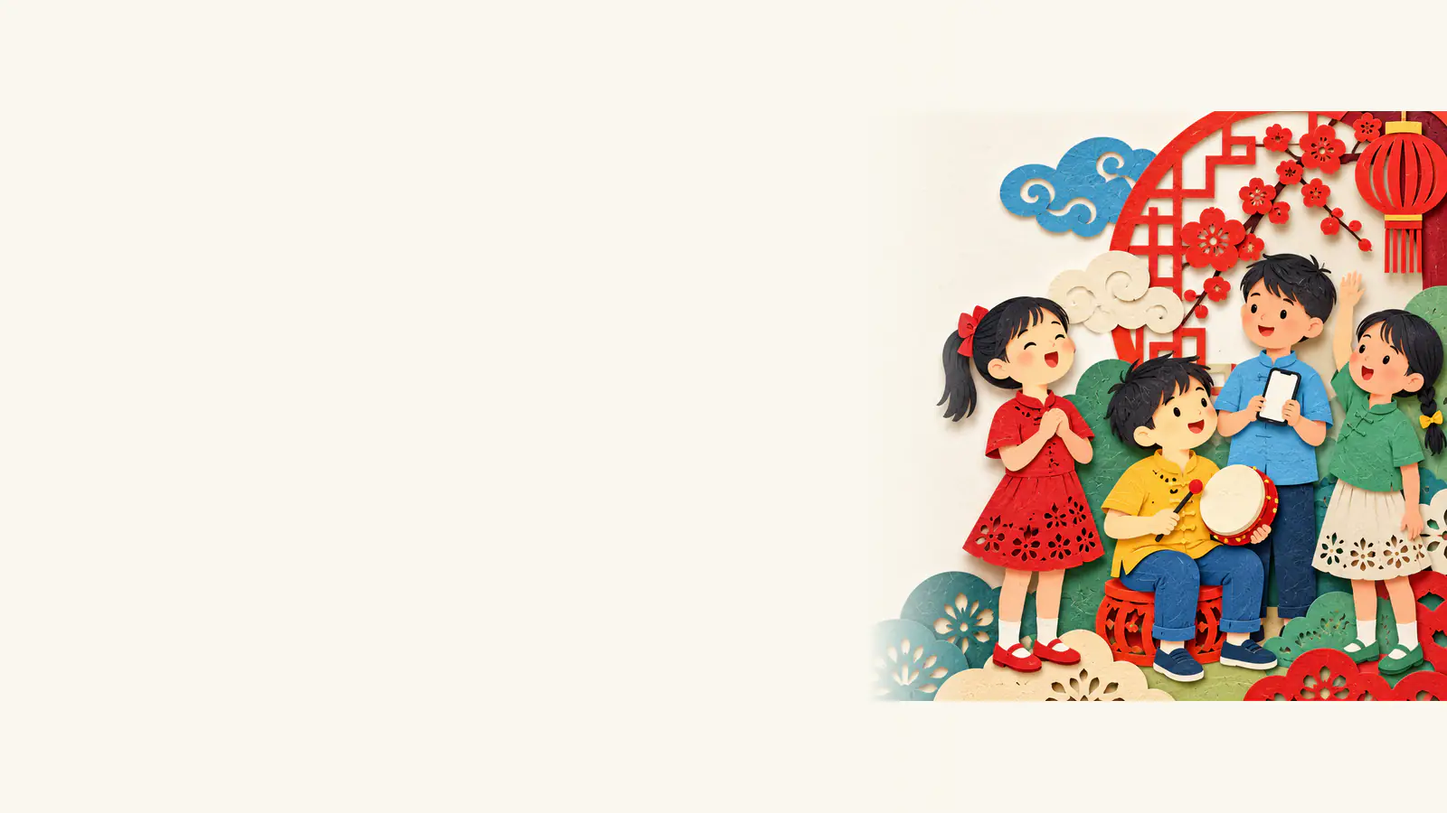
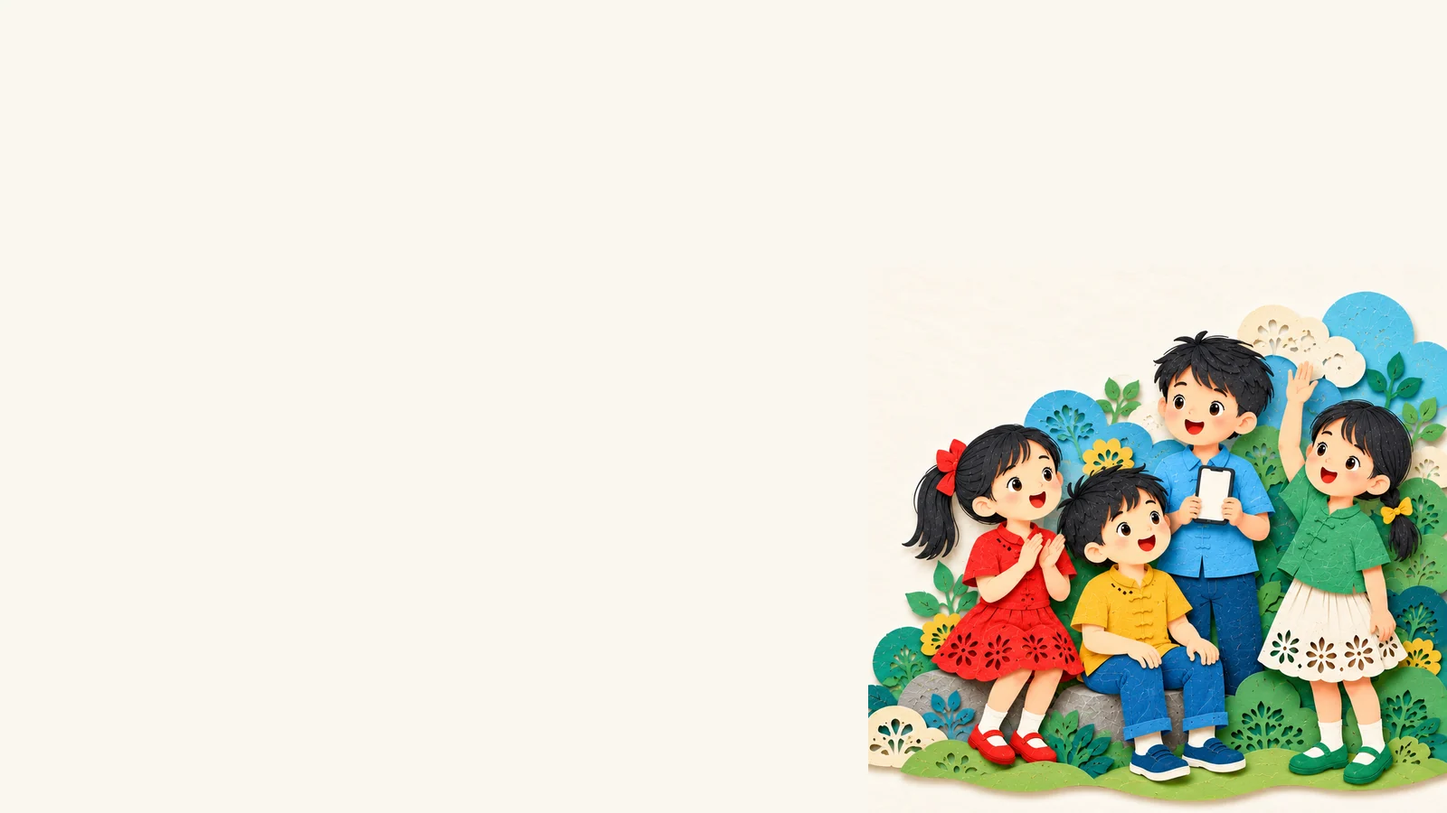
fix(lesson): deck QA across 82 sampled lessons
- 演奏课 lesson type (竖笛 / 口风琴 / 演奏 mode); 国歌、队歌 get ceremony-appropriate tasks;
  plain wording for grades 1-2; listening questions no longer assume a recurring theme
- Long scores on 难点突破 keep their size and scroll in place, following the playing note
- 4:3 projector: score beside the elements, footer kept on one line; text-wrap: pretty deck-wide
- 人教版: 音乐剧 counts as a work type (four lessons could not open); 《音乐之声》 credits per textbook p.30
- Redrawn group-roles illustrations for both editions

Changed region(s): [[0.5938, 0.1244, 1.0, 0.9956]]

diff --git a/app/lib/lesson/reflective.ts b/app/lib/lesson/reflective.ts
@@ -1,13 +1,13 @@
 // 反思型课堂（动机激发 → 认知冲突 → 协同建构 → 应用迁移 → 总结升华）的标准课件脚本。
 // 依据《反思型中小学音乐课堂教学设计模板（通用版）》：每个阶段有固定的环节、建议时长和“共同反思要点”，
-// 提问和任务按课型（歌唱课 / 欣赏课 / 编创课）取模板中的示例，并填入本课作品名与教材事实。
+// 提问和任务按课型（歌唱课 / 演奏课 / 欣赏课 / 编创课）取模板中的示例，并填入本课作品名与教材事实。
 // 这里只生成文字脚本；页面上的谱例、旋律、插图由 ReflectivePresent 按数据有无决定是否出现。
 
-export type LessonKind = "sing" | "listen" | "create";
+export type LessonKind = "sing" | "play" | "listen" | "create";
 export type StageKey = "motivate" | "conflict" | "construct" | "transfer" | "summary";
 export type LessonFact = { label: string; value: string };
 
-export const LESSON_KINDS: Record<LessonKind, string> = { sing: "歌唱课", listen: "欣赏课", create: "编创课" };
+export const LESSON_KINDS: Record<LessonKind, string> = { sing: "歌唱课", play: "演奏课", listen: "欣赏课", create: "编创课" };
 
 export const STAGES: Array<{ key: StageKey; name: string; theme: string; minutes: number }> = [
   { key: "motivate", name: "动机激发", theme: "反思铺垫", minutes: 5 },
@@ -20,10 +20,15 @@ export const STAGES: Array<{ key: StageKey; name: string; theme: string; minutes
 const SING_MODES = /小小歌唱家|唱歌|演唱|视唱|背唱|印在心里的歌/;
 const CREATE_MODES = /创乐工坊|编创|创编/;
 const SONG_TYPES = /歌曲|民歌|号子|童谣|合唱|戏曲歌曲/;
+const PLAY_MODES = /小小演奏家|演奏/;
+const CLASSROOM_INSTRUMENTS = /竖笛|口风琴|葫芦丝|陶笛|口琴/;
+// 国歌、队歌等仪式歌曲：不做“换情绪、加律动”一类改编练习，而是规范、庄严地演唱。
+const SOLEMN_WORKS = /国歌|队歌|国际歌/;
 
-/** 课型：先看教材栏目，再看作品类型；老师可以在课件里改。 */
-export function lessonKindOf(mode: string | undefined, workType: string): LessonKind {
+/** 课型：先看教材栏目，再看作品类型和作品名（竖笛、口风琴等课堂乐器曲是演奏课）；老师可以在课件里改。 */
+export function lessonKindOf(mode: string | undefined, workType: string, workName = ""): LessonKind {
   if (mode && CREATE_MODES.test(mode)) return "create";
+  if ((mode && PLAY_MODES.test(mode)) || CLASSROOM_INSTRUMENTS.test(workName)) return "play";
   if (mode && SING_MODES.test(mode)) return "sing";
   if (mode && /万花筒|聆听|欣赏|故事|考古/.test(mode)) return "listen";
   return SONG_TYPES.test(workType) ? "sing" : "listen";
@@ -86,13 +91,21 @@ export function reflectiveScript(input: { workName: string; kind: LessonKind; gr
   const place = pick(facts, /^(地域|所属地域)$/);
   const origin = nation ? `${nation}音乐` : place ? `${place}的音乐` : "这首作品的文化背景";
   const playful = level === "low";
+  const solemn = SOLEMN_WORKS.test(work);
+  const ensemble = /合奏|重奏/.test(work);
 
   const goals = {
     sing: [
       { area: "审美感知", text: `听辨${work}的旋律、节奏和情绪${mood ? `，说出它“${mood}”的感觉从哪里来` : "，说出自己的感受"}。` },
       { area: "艺术表现", text: `用自然、有弹性的声音唱好${work}，做到音准、节奏准确，表达出歌曲的情感。` },
-      { area: "创意实践", text: "尝试用不同的速度、力度或情绪演唱一个乐句，比较效果并说出理由。" },
-      { area: "文化理解", text: `了解${origin}，体会音乐和生活、文化的联系。` },
+      { area: "创意实践", text: solemn ? "比较不同的速度、力度，体会为什么要庄严、有力地演唱。" : "尝试用不同的速度、力度或情绪演唱一个乐句，比较效果并说出理由。" },
+      { area: "文化理解", text: solemn ? `了解${work}的创作背景和演唱礼仪。` : `了解${origin}，体会音乐和生活、文化的联系。` },
+    ],
+    play: [
+      { area: "审美感知", text: `聆听${work}，感受旋律和节奏的特点${mood ? `，体会它“${mood}”的情绪` : ""}。` },
+      { area: "艺术表现", text: `用正确的姿势和演奏方法演奏${work}，做到节奏稳定、音色干净${ensemble ? "，合奏时声部整齐" : ""}。` },
+      { area: "创意实践", text: "尝试用不同的力度或速度演奏一个乐句，比较效果并说出理由。" },
+      { area: "文化理解", text: `了解${origin}，体会乐器演奏和音乐表达的联系。` },
     ],
     listen: [
       { area: "审美感知", text: `聆听${work}，辨识旋律、节奏、音色和情绪的变化。` },
@@ -110,16 +123,24 @@ export function reflectiveScript(input: { workName: string; kind: LessonKind; gr
 
   const scene = {
     sing: playful ? `先听一听${work}，跟着音乐轻轻拍手，想一想：歌里唱了什么？` : `聆听${work}的示范演唱，说一说：歌曲给你留下的第一印象是什么？`,
+    play: `先听一听${work}的示范演奏，看看手指和气息怎样配合，想一想：哪一句你最想先学会？`,
     listen: `闭上眼睛完整聆听${work}的片段，想象音乐描绘了怎样的画面。`,
     create: `听一听${work}，找一找里面最有特点的节奏，想一想生活里哪里也有这样的节奏。`,
   }[kind];
 
   const perceive = {
     sing: { task: "跟着旋律轻声模唱，标出唱得不稳的地方。", rows: [
-      { label: "情绪", options: ["欢快", "抒情", "优美", "雄壮", "活泼", "深情"] },
+      { label: "情绪", options: ["欢快", "抒情", "优美", "雄壮", "庄严", "活泼", "深情"] },
       { label: "速度", options: ["慢", "稍慢", "中速", "稍快", "快"] },
-      { label: "旋律", options: ["级进为主", "跳进较多", "起伏平稳", "起伏较大"] },
-      { label: "难点", options: ["音准", "节奏", "换气", "高音", "咬字"] },
+      // 低年级用形象的说法代替“级进、跳进”等术语
+      { label: "旋律", options: playful ? ["像走楼梯", "像跳台阶", "平平稳稳", "高高低低"] : ["级进为主", "跳进较多", "起伏平稳", "起伏较大"] },
+      { label: "难点", options: playful ? ["唱准音", "拍子稳", "换气", "唱清楚"] : ["音准", "节奏", "换气", "高音", "咬字"] },
+    ] },
+    play: { task: "跟着音乐默按指法或轻拍节奏，标出最难的地方。", rows: [
+      { label: "情绪", options: ["欢快", "抒情", "优美", "活泼", "庄重"] },
+      { label: "速度", options: ["慢", "中速", "快"] },
+      { label: "难点", options: ["指法", "气息", "节奏", "音色", ...(ensemble ? ["声部配合"] : [])] },
+      { label: "练法", options: ["先拍节奏", "先唱谱", "慢速练习", "分句练习"] },
     ] },
     listen: { task: "完整聆听，记录旋律、节奏和情绪的变化。", rows: [
       { label: "情绪", options: ["欢快", "抒情", "庄严", "激昂", "幽默", "宁静"] },
@@ -136,14 +157,24 @@ export function reflectiveScript(input: { workName: string; kind: LessonKind; gr
   }[kind];
 
   const conflicts = {
-    sing: [
+    sing: solemn ? [
+      `${work}里哪一句最容易唱不准、唱不齐？为什么？`,
+      `为什么${work}要唱得庄严、有力？速度和力度起了什么作用？`,
+      "你唱的和示范比，差别在哪里？是音准、节奏，还是精神面貌？",
+    ] : [
       `${work}里哪一句最容易唱跑调或唱不稳？为什么？`,
-      meter ? `这首歌是 ${meter} 拍，如果换一种拍子来唱，感觉会有什么不同？` : "如果把速度唱得很快或很慢，歌曲的情绪会发生什么变化？",
+      playful ? "如果唱得很快或很慢，歌曲的心情会变吗？为什么？"
+        : meter ? `这首歌是 ${meter} 拍，如果换一种拍子来唱，感觉会有什么不同？` : "如果把速度唱得很快或很慢，歌曲的情绪会发生什么变化？",
       "你唱的和示范比，差别在哪里？是音准、节奏，还是情感？",
     ],
+    play: [
+      `${work}里哪一句最难演奏？难在指法、气息还是节奏？`,
+      "同样的音，为什么有人奏出来好听，有人却不好听？",
+      ensemble ? "合奏时怎样才能和其他声部对齐、听得见彼此？" : "你演奏的和示范比，差别在哪里？",
+    ],
     listen: [
-      "同一个主题在作品前后出现时，情绪为什么不一样？",
-      "如果换一种乐器来演奏这段主题，效果会怎样？",
+      playful ? "音乐里有没有重复出现的旋律？它每次出现时，心情一样吗？" : "作品里有没有重复出现的旋律？它每次出现时，情绪一样吗？为什么？",
+      "如果换一种乐器或换一种声音来表现这段旋律，效果会怎样？",
       `${work}表达的情感，和你第一次听时的想象一样吗？`,
     ],
     create: [
@@ -159,6 +190,12 @@ export function reflectiveScript(input: { workName: string; kind: LessonKind; gr
       { role: "节奏员", duty: "拍稳节拍，盯住难唱的节奏" },
       { role: "录音员", duty: "录下小组演唱，回放对比" },
       { role: "发言人", duty: "整理小组的改进办法并汇报" },
+    ],
+    play: [
+      { role: "示范手", duty: "先练会难点，给组员做示范" },
+      { role: "节拍员", duty: "用拍手或节拍器稳住速度" },
+      { role: "录音员", duty: "录下小组演奏，回放对比" },
+      { role: "发言人", duty: "整理小组的练习办法并汇报" },
     ],
     listen: [
       { role: "旋律组", duty: "哼唱主题，画出旋律线" },
@@ -176,21 +213,32 @@ export function reflectiveScript(input: { workName: string; kind: LessonKind; gr
 
   const groupTask = {
     sing: "小组针对演唱难点（音准 / 节奏 / 换气）专项练习：录一遍、听一遍、改一遍，找出最有效的办法。",
+    play: "小组针对演奏难点（指法 / 气息 / 节奏）分句练习：录一遍、听一遍、改一遍，找出最有效的练法。",
     listen: "小组分工分析核心片段的音乐要素，结合文化背景讨论“为什么会这样”，填写要素分析与反思表。",
     create: "小组合作完善初步编创，围绕“编创逻辑”和“情绪是否贴合”讨论，调整作品结构。",
   }[kind];
 
   const practiceTip = {
     sing: "放慢速度，一句一句跟唱；唱准后再恢复原速。",
+    play: "先唱谱、再慢速演奏；一句熟练了再连下一句，最后恢复原速。",
     listen: "反复聆听主题片段，边听边哼唱或画旋律线。",
     create: "先拍稳节奏，再加旋律；每改一次都唱一遍、听一遍。",
   }[kind];
 
   const transfer = {
-    sing: [
+    sing: solemn ? [
+      { level: "基础", task: "完整、准确地演唱全曲，注意刚才解决的难点。" },
+      { level: "提高", task: "按照仪式场合的要求（站姿、表情、声音）规范演唱，互相评一评。" },
+      { level: "拓展", task: `了解${work}的创作背景，用一两句话讲给同学听。` },
+    ] : [
       { level: "基础", task: "完整、准确地演唱全曲，注意刚才解决的难点。" },
       { level: "提高", task: "用两种不同的情感（如激昂 / 舒缓）演唱同一乐句，对比效果并说明原因。" },
       { level: "拓展", task: "为歌曲设计演唱形式（领唱、齐唱、轮唱或加入律动），并说明设计理由。" },
+    ],
+    play: [
+      { level: "基础", task: "完整、流畅地演奏全曲，注意刚才解决的难点。" },
+      { level: "提高", task: "用强、弱两种力度演奏同一乐句，说说哪种更贴合乐曲的情绪。" },
+      { level: "拓展", task: ensemble ? "和同学分声部合奏，听着别的声部把速度对齐。" : "和同学一起合奏，或为演奏配上简单的打击乐伴奏。" },
     ],
     listen: [
       { level: "基础", task: "听辨作品的主题片段，说出它的情绪和主要乐器。" },
@@ -218,10 +266,11 @@ export function reflectiveScript(input: { workName: string; kind: LessonKind; gr
     chain: ["我们的观点有哪些不同？", "我们是怎样达成共识的？", "这个过程中发现了什么新问题？", "我对音乐有了哪些新理解？"],
     transfer,
     showcase: ["我是怎样把刚才的反思用到新任务里的？", "遇到了什么新问题？和之前的问题有关系吗？", "我的成果达到预期了吗？还可以怎样改进？"],
-    selfCheck: kind === "sing" ? ["音准与节奏", "情感表达", "反思与改进"] : kind === "listen" ? ["听辨要素", "表达理解", "反思与改进"] : ["创意与贴合", "完整呈现", "反思与改进"],
+    selfCheck: kind === "sing" ? ["音准与节奏", "情感表达", "反思与改进"] : kind === "play" ? ["演奏方法", "节奏与音色", "反思与改进"] : kind === "listen" ? ["听辨要素", "表达理解", "反思与改进"] : ["创意与贴合", "完整呈现", "反思与改进"],
     wrapUp: ["这节课我通过反思解决了哪些问题？", "我还有哪些没解决的问题？课后怎样继续探究？", "下次学音乐，我可以怎样运用今天的反思方法？"],
     homework: {
       sing: `完善“反思成长档案”：录一段自己演唱${work}的片段，写下进步和还要改进的地方。`,
+      play: `完善“反思成长档案”：录一段自己演奏${work}的片段，写下进步和还要练习的地方。`,
       listen: `完善“反思成长档案”：再听一遍${work}，写下新的发现。`,
       create: "完善“反思成长档案”：修改小组作品，记录每一次修改的理由。",
     }[kind],

diff --git a/app/reflective.css b/app/reflective.css
@@ -61,7 +61,8 @@
 /* 标题：楷体 + 一笔阶段色的“笔触” */
 .reflect h2 { position: relative; margin-bottom: 3.2vh; padding-bottom: 1.2vh; font-family: var(--kai); font-weight: 400; font-size: clamp(34px, 3.6vw, 58px); letter-spacing: .06em; color: var(--brand-ink); text-wrap: balance; }
 .reflect h2::after { content: ""; position: absolute; left: 0; bottom: 0; width: 2.4em; height: 6px; border-radius: 6px 2px 6px 2px; background: linear-gradient(90deg, var(--stage), color-mix(in srgb, var(--stage) 25%, transparent)); transform: rotate(-1.2deg); }
-.reflect p, .reflect li { text-wrap: pretty; }
+/* 课件里所有文字都避免最后一行只剩一个字（标题另用 balance） */
+.reflect .present-fit, .reflect p, .reflect li { text-wrap: pretty; }
 .reflect-lead, .reflect-wide > p, .reflect-scene-copy > p, .reflect-wonder > p { margin: 0 0 2.6vh; font-size: clamp(20px, 2vw, 32px); line-height: 1.65; color: var(--brand-ink); }
 .reflect-wide { width: min(1240px, 100%); }
 .reflect-two { display: grid; grid-template-columns: minmax(0, 1.618fr) minmax(0, 1fr); gap: 4vw; align-items: center; width: min(1500px, 100%); }
@@ -139,6 +140,8 @@
 .present .reflect-listen .melody-player.is-large .melody-play { position: static; height: 60px; padding: 0 30px 0 24px; border-radius: 999px; box-shadow: 0 14px 26px -16px rgba(30, 60, 40, .7); font-size: clamp(18px, 1.5vw, 24px); }
 .reflect-listen { margin-top: 2.4vh; }
 .reflect-wide.is-practice { width: min(1560px, 100%); }
+/* 难点突破：长谱子（如国歌）不再整页缩小，谱面在自己的框里上下滚动，播放时跟着当前音走 */
+.reflect-wide.is-practice .melody-score { max-height: calc(100vh - 380px); min-height: 180px; overflow-y: auto; overscroll-behavior: contain; scroll-behavior: smooth; }
 
 /* 谱例 */
 .reflect-score { margin: 0; text-align: center; }
@@ -210,6 +213,14 @@
 .reflect-dots button.active { width: 26px; border-radius: 5px; background: var(--c); }
 .reflect-dots button.is-hidden { outline: 1.5px dashed #999; background: transparent; }
 .reflect .present-nav button[aria-pressed="true"] { border-color: var(--stage); color: var(--stage); }
+/* 底栏在 4:3 投影上也不折行：按钮字、课名、页码点都保持一行 */
+.reflect .present-nav button, .reflect .present-bar > span { flex: none; white-space: nowrap; }
+.reflect .reflect-dots { flex-wrap: nowrap; min-width: 0; }
+@media (max-width: 1280px) {
+  .reflect .present-bar > span { display: none; }
+  .reflect .present-nav button span { display: none; }
+  .reflect .reflect-dots { gap: 5px; }
+}
 
 @keyframes reflect-rise { from { opacity: 0; transform: translateY(18px); } }
 @keyframes reflect-art-in { from { opacity: 0; transform: translateX(3vw); } }
@@ -222,7 +233,9 @@
 }
 
 @media (max-width: 1100px) {
-  .reflect-two, .reflect-two.is-even, .reflect-two.is-score, .reflect-scene { grid-template-columns: minmax(0, 1fr); }
+  .reflect-two, .reflect-two.is-even, .reflect-scene { grid-template-columns: minmax(0, 1fr); }
+  /* 4:3 投影（1024 宽）上谱例仍和要素并排，否则谱子摞在上面会被整页缩小 */
+  .reflect-two.is-score { grid-template-columns: minmax(0, 1.618fr) minmax(0, 1fr); gap: 3vw; }
   .reflect-roles { grid-template-columns: repeat(2, minmax(0, 1fr)); }
   .reflect-chain, .reflect-quiz { grid-template-columns: minmax(0, 1fr); }
   .reflect-cover-copy { width: auto; padding-right: 6vw; }
@@ -236,7 +249,7 @@
 @media (max-width: 640px) {
   .reflect-band { flex-wrap: wrap; gap: 4px 12px; padding: 8px 14px; }
   .reflect-band-timer { margin-left: auto; }
-  .reflect-tiers, .reflect-boards, .reflect-notes { grid-template-columns: minmax(0, 1fr); }
+  .reflect-tiers, .reflect-boards, .reflect-notes, .reflect-two.is-score { grid-template-columns: minmax(0, 1fr); }
   .reflect-tiers li[data-level] { min-height: 0; }
   .reflect-notes li { min-height: 0; }
   .reflect-cover { height: auto; min-height: 70vh; }

diff --git a/app/components/lesson/ReflectivePresent.tsx b/app/components/lesson/ReflectivePresent.tsx
@@ -63,7 +63,7 @@ export function ReflectivePresent({
     return next;
   }), [workId]);
   const [preparing, setPreparing] = useState(false);
-  const kind = saved.kind ?? lessonKindOf(mode, workType);
+  const kind = saved.kind ?? lessonKindOf(mode, workType, workName);
   const script = useMemo(() => reflectiveScript({ workName, kind, grade, facts }), [facts, grade, kind, workName]);
   const elements = useMemo(() => elementFacts(facts), [facts]);
   const culture = useMemo(() => cultureFacts(facts), [facts]);
@@ -288,6 +288,22 @@ export function ReflectivePresent({
     observer.observe(stageEl);
     return () => { observer.disconnect(); cancelAnimationFrame(raf); };
   }, [slideKey, step, preparing]);
+
+  // 难点突破页的谱面在框内滚动：播放时把正在唱的音保持在可见范围里。
+  useEffect(() => {
+    if (slideKey !== "practice" || !stageRef.current) return;
+    const root = stageRef.current;
+    const follow = () => {
+      const note = root.querySelector<HTMLElement>(".melody-score .is-active");
+      const box = note?.closest<HTMLElement>(".melody-score");
+      if (!note || !box || box.scrollHeight <= box.clientHeight) return;
+      const top = note.getBoundingClientRect().top - box.getBoundingClientRect().top;
+      if (top < 0 || top > box.clientHeight - 60) box.scrollTop += top - box.clientHeight / 3;
+    };
+    const observer = new MutationObserver(follow);
+    observer.observe(root, { subtree: true, attributes: true, attributeFilter: ["class"] });
+    return () => observer.disconnect();
+  }, [slideKey]);
 
   const isHidden = hidden.has(slide.key);
   const toggleHidden = () => update({ hidden: isHidden ? [...hidden].filter((key) => key !== slide.key) : [...hidden, slide.key] });

diff --git a/editions/renjiao/public/art/lesson/SOURCES.md b/editions/renjiao/public/art/lesson/SOURCES.md
@@ -199,3 +199,31 @@ Wide 16:9 1600x900 handmade Chinese layered paper-cut illustration: stacked colo
 - 尺寸与体积：1600×450，64,276 字节。
 - 组成：2×4 缩略图，包含八张成品，无空白格。
 - 生成方式：使用仓库 sharp 将各 WebP 缩至 400×225 后排入网格，背景为 #FAF7EE；未添加文字或标题。
+
+## T076 重画记录：group-roles.webp
+
+- 原图：E:/Projects/.tmp/lesson-art/renjiao/group-roles.webp（保留，未覆盖）
+- 风格参照：E:/Projects/.tmp/lesson-art/renjiao/stage-motivate.webp、stage-construct.webp
+- image_gen 源图：E:/codex-state/codex-home/generated_images/01a14ff6-1b6d-7630-96f2-a3a717131aef/exec-919ee839-08f0-4dff-9c95-0d60003e5088.png（1672×941）
+- 新图：E:/Projects/.tmp/lesson-art/redraw/renjiao-group-roles.webp（1600×900，80,644 字节）
+- 导出：E:/Projects/music-graph-site/node_modules/sharp；从右侧场景裁切、缩放至 640px 版心并排入 1600×900 画布；WebP quality=86、effort=6。
+- image_gen 请求次数：2 次；第 1 次眼睛清楚但角色分配不符并多出手鼓，第 2 次成功。无 CLI fallback。
+- 自查：PASS — 四个孩子都能看到睁开的双眼和深色瞳孔；唱歌、拍节奏、拿空白录音设备、举手发言四种分工清楚；人物和装饰仅在右侧 40% 版心；左侧 60% 为干净浅色纸面；未见文字、伪文字、数字、字母、logo 或水印；尺寸与体积符合要求。
+
+### 最终采用提示词（实际提交）
+
+~~~text
+Make a corrected wide 16:9 redraw of the supplied Renjiao paper-cut illustration. Match the approved Renjiao references: dimensional handmade Chinese paper-cut craft, layered colored paper, softly raised cut edges, gentle paper shadows and tactile fibers, bright but refined teal, leaf green, warm cream, mustard, red and blue. Preserve the same four Chinese primary-school classmates and the large, clear, friendly open eyes from the supplied group image.
+
+Composition: a compact group in a narrow two-row arrangement; all children and all props wholly inside the rightmost 40% of the full canvas, x=60%-100%. Left 60% must be clean warm pale cream #FAF7EE paper with only faint texture, no object or shadow. Keep all four children's faces large and unobstructed; each child must show two clearly open eyes with visible dark pupils / irises and small highlights, both eyes visible from a near-frontal or gentle three-quarter view. Group height about 60%-70%.
+
+Exactly four children with these exact separate roles and positions:
+- Front left: a Chinese schoolgirl in simple red clothes clapping both hands together to keep rhythm.
+- Front center: a Chinese schoolboy in simple mustard-yellow clothes singing, mouth open, empty hands; he is NOT holding any object.
+- Back center: a Chinese schoolboy in simple blue clothes holding only one small plain unbranded handheld audio recorder at chest level. The recorder is a simple blank rectangle with absolutely no screen content, writing, buttons or icons.
+- Back right: a Chinese schoolgirl in simple green clothes raising one arm clearly above her shoulder, hand visible and raised to speak.
+
+Do not draw a drum, tambourine, mallet, musical instrument, music stand, book, phone, extra prop or extra child anywhere. Do not let one child perform another child's role. Keep expressions natural and cheerful, clothes plain with no badges or logos.
+
+No text, pseudo-writing, letters, numbers, symbols, icons, labels, watermarks, signs, music notation or screen graphics. Avoid a large decorative frame or busy scene; only a small quiet paper-cut ground shape close around the group.
+~~~

diff --git a/public/art/lesson/SOURCES.md b/public/art/lesson/SOURCES.md
@@ -303,3 +303,25 @@ Wide 16:9 1600x900 nostalgic Chinese childhood woodblock / linocut picture-book 
 - 尺寸与体积：1600×450，65,146 字节；由 sharp 导出。
 - 组成：2×4 缩略图，包含 stage-motivate、stage-conflict、stage-construct、stage-transfer、stage-summary、group-roles、wonder-wall、homework 八张当前成品，无空白格。
 - 生成方式：使用 sharp 将各 WebP 缩至 400×225 后排入网格，背景为 #FAF7EE；未添加文字或标题。
+
+## T076 重画记录：group-roles.webp
+
+- 原图：E:/Projects/.tmp/lesson-art/renyin/group-roles.webp（保留，未覆盖）
+- 风格参照：E:/Projects/.tmp/lesson-art/renyin/stage-motivate.webp、stage-construct.webp
+- image_gen 源图：E:/codex-state/codex-home/generated_images/01a14ff6-1b6d-7630-96f2-a3a717131aef/exec-e8f391d5-956f-4e74-bdbd-6c3286d5dd9a.png（1672×941）
+- 新图：E:/Projects/.tmp/lesson-art/redraw/renyin-group-roles.webp（1600×900，112,948 字节）
+- 导出：E:/Projects/music-graph-site/node_modules/sharp；从右侧场景裁切、缩放至 640px 版心并排入 1600×900 画布；WebP quality=86、effort=6。
+- image_gen 请求次数：3 次；第 1 次构图横向过宽未采用，第 2 次网络错误，等待 60 秒后第 3 次成功。无 CLI fallback。
+- 自查：PASS — 四个孩子与道具都在右侧 40% 版心；四人组合约占画高 69%；左侧 60% 为干净浅色纸面；四种分工清楚；录音设备无可辨文字；未见文字、伪文字、数字、字母、logo 或水印；尺寸与体积符合要求。
+
+### 最终采用提示词（实际提交）
+
+~~~text
+Recompose the supplied Renyin classroom art as a finished wide 16:9 illustration, matching the two approved stage references in nostalgic Chinese childhood woodblock / linocut picture-book style: warm #FAF7EE paper, visible but subtle printed grain, carved ink edges, muted forest green, brick red, ochre, warm white and teal. Keep the same four friendly Chinese primary-school classmates, their simple everyday clothes and recognizable color roles from the group reference.
+
+Strict layout: all four children, all hands, recorder, and every shadow must be contained in the rightmost 40% of the entire landscape (between x=60% and x=100%). The group's total height should be about 65% of the canvas (from y≈18% to y≈83%). Do NOT arrange the children in one wide horizontal line. Instead make a tight, narrow, two-row cluster: two children slightly behind and two seated or standing close in front, with shoulders overlapping naturally, so the complete cluster is taller than it is wide and fits wholly within that rightmost 40% column. Keep all four faces separate, large, and unobstructed. Leave at least the full left 60% completely blank warm pale paper, with only faint paper grain. Do not let anything enter the left 60%.
+
+In the cluster, show these four roles distinctly: a boy singing with an open singing mouth; a girl clapping a steady rhythm; a boy holding a small plain unbranded audio recorder with a completely blank front; and a girl raising one hand to speak. Keep the recorder blank. Open eyes with visible pupils and natural cheerful expressions, clean age-appropriate hands. No extra children or decorative scene.
+
+No text, pseudo-writing, letters, numbers, labels, watermarks, icons, music notation or symbols, signs, books, or screen graphics anywhere.
+~~~
